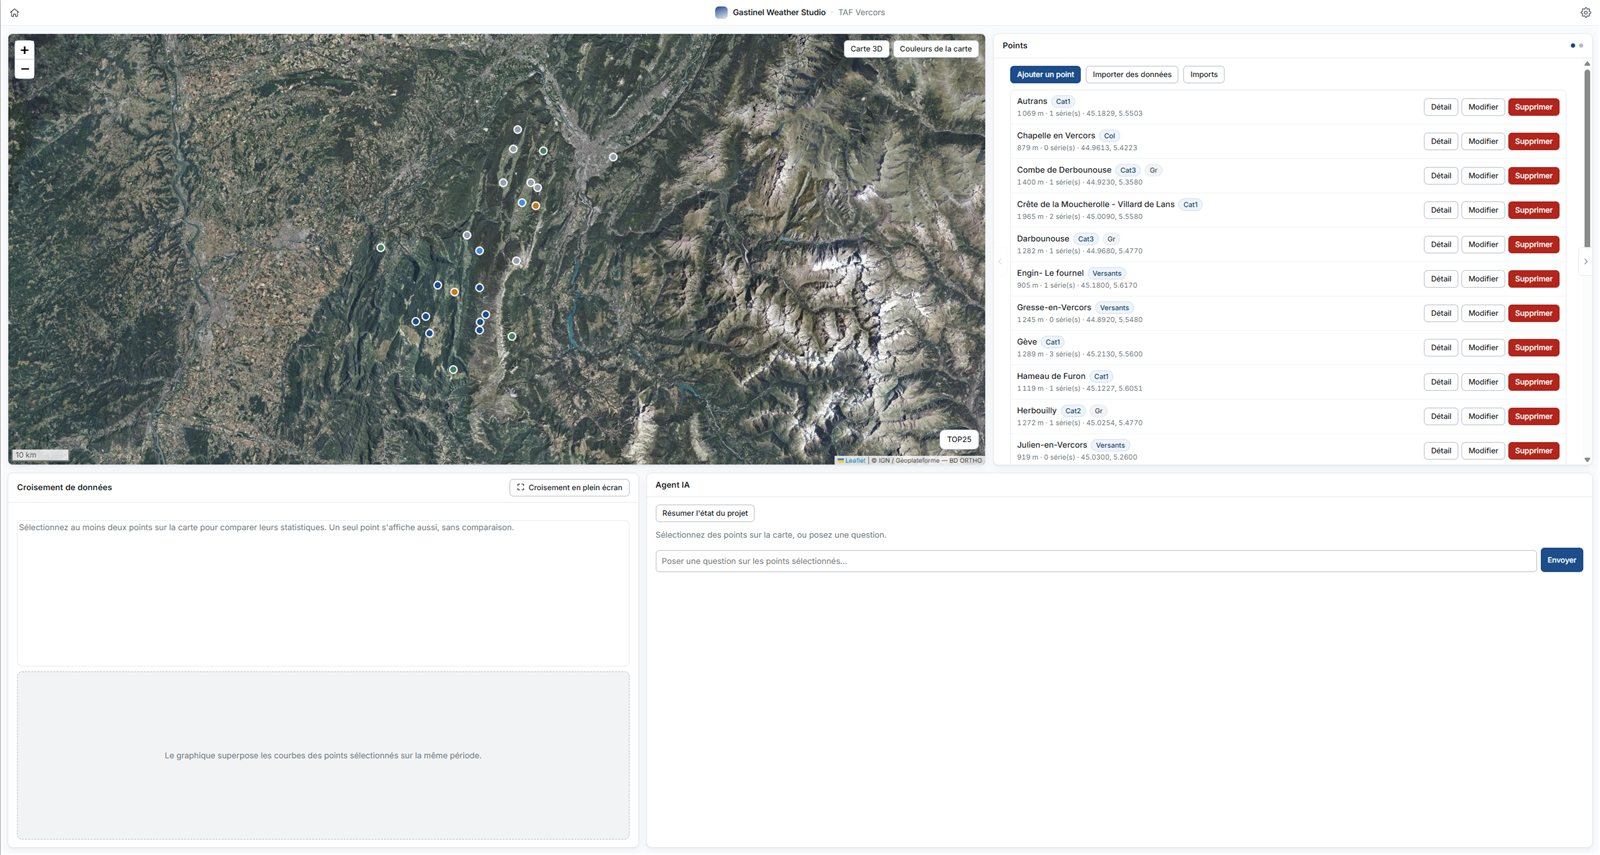
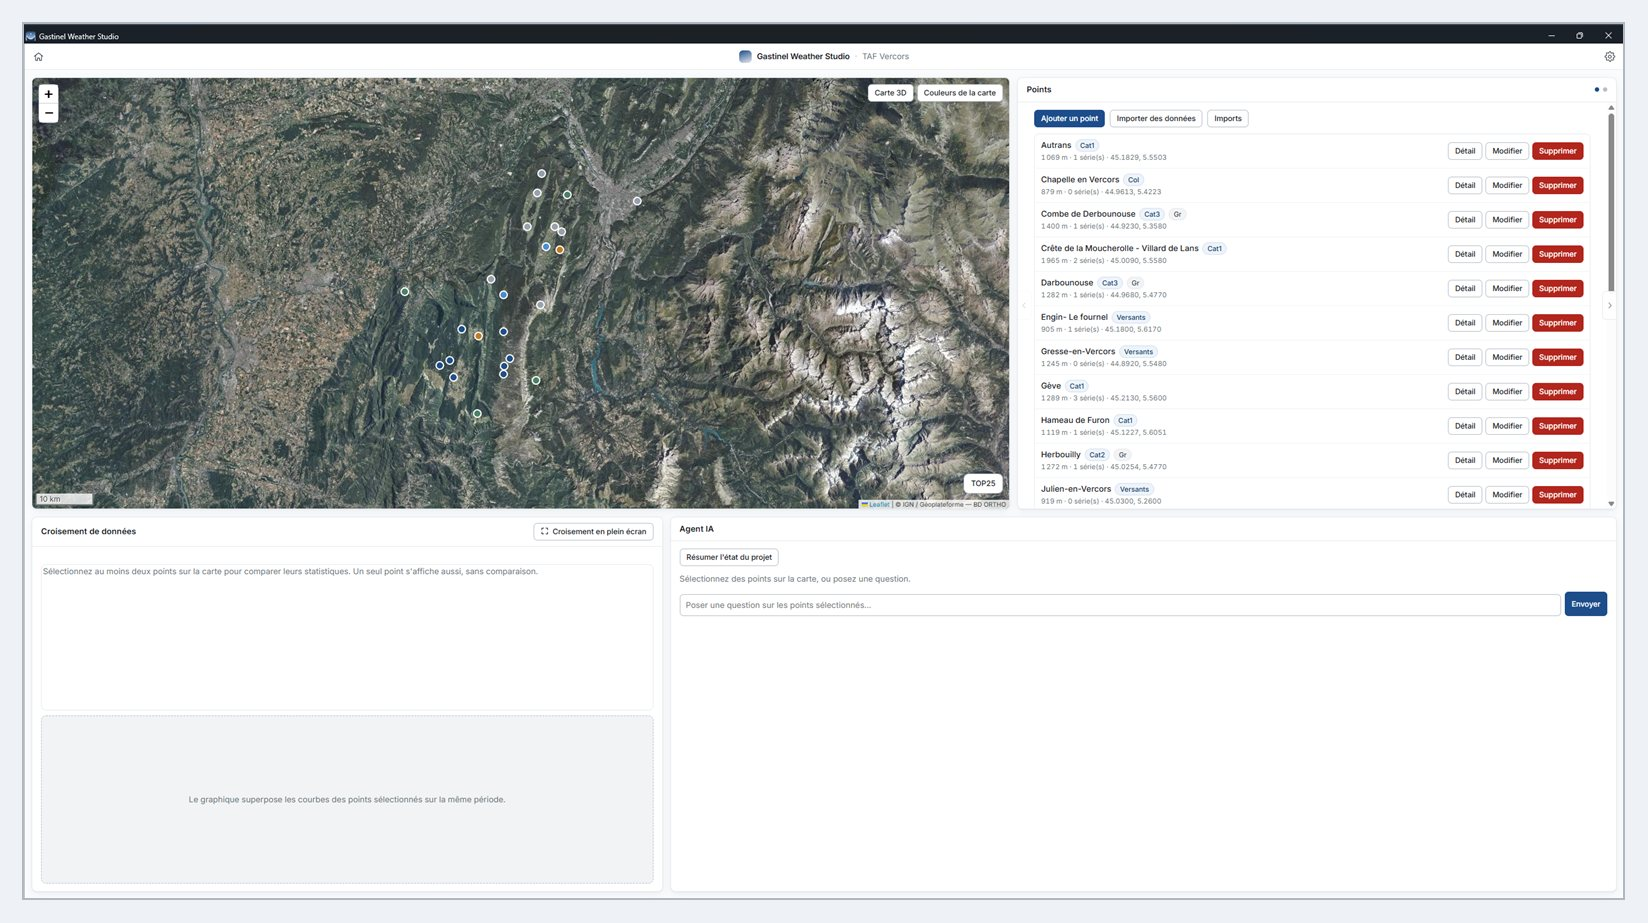
README : cadre de la capture principale, croisement plein ecran, import, Gastinel Weather Elitech, logiciel et extensions separes

diff --git a/README.md b/README.md
@@ -19,22 +19,52 @@ Application de bureau (Windows, avec une cible Android) pour **centraliser, cart
 
 ## Aperçu
 
-| Comparer deux sites, avec l'agent d'analyse | Relief 3D (MNT IGN LiDAR HD) |
+### Croiser les séries
+
+Sélectionnez deux points ou plus sur la carte : statistiques côte à côte, courbes superposées et, si vous le souhaitez, une lecture par l'agent d'analyse.
+
+| Dans le studio | En plein écran (moyennes mensuelles sur plusieurs années) |
 |---|---|
-| ![Croisement de données](docs/captures/croisement.jpg) | ![Carte 3D](docs/captures/3d.jpg) |
+| ![Croisement de données et agent d'analyse](docs/captures/croisement.jpg) | ![Croisement en plein écran](docs/captures/croisement-plein-ecran.jpg) |
 
-<p align="center"><img src="docs/captures/projets.jpg" alt="Liste des projets" width="700"></p>
+### Importer des données
 
-## Fonctionnalités
+Un seul panneau pour trois sources : un **fichier** (format reconnu au contenu), une **station en ligne** (API Infoclimat), ou un **relevé sur place** (saisie à la main ou logger RC-5 branché).
 
-- **Carte** interactive sur fonds IGN (orthophoto, TOP25), avec les points de mesure et les stations, et une **vue 3D du relief**.
-- **Import de relevés** : exports ElitechLog (`.xls`), Infoclimat (JSON et CSV), archives ROMMA (`.csv`). Le format est reconnu au contenu.
-- **Lecture directe du logger Elitech RC-5** par le port série USB, sans passer par ElitechLog.
+<p align="center"><img src="docs/captures/import.jpg" alt="Fenêtre d'import de données" width="560"></p>
+
+### Gastinel Weather Elitech : lire un logger RC-5 sans ElitechLog
+
+Branchez un enregistreur **Elitech RC-5** en USB : l'application le détecte toute seule et propose d'importer sa mémoire. La page Elitech lit les mesures directement par le port série, vérifie et remet à l'heure l'horloge du logger, démarre ou arrête l'enregistrement, puis rattache la série à un point d'un projet. Les mesures obtenues sont identiques à celles d'un export ElitechLog (vérifié par un test permanent). Fonctionne aussi sur Android.
+
+<p align="center"><img src="docs/captures/elitech.jpg" alt="Page Gastinel Weather Elitech avec un RC-5 branché" width="800"></p>
+
+## Le logiciel
+
+- **Carte** interactive sur fonds IGN (orthophoto, TOP25), avec les points de mesure et les stations.
+- **Projets** : chaque projet est un espace de travail géographique libre.
+
+<p align="center"><img src="docs/captures/projets.jpg" alt="Liste des projets" width="640"></p>
+
+- **Import de relevés** : exports ElitechLog (`.xls`), Infoclimat (JSON et CSV), archives ROMMA (`.csv`), et tout autre tableau ou capture d'écran lu par l'assistant (aperçu vérifiable avant enregistrement).
+- **Lecture directe du logger Elitech RC-5** par le port série USB (voir plus haut).
 - **API Infoclimat** : récupération des données de stations avec votre propre clé.
-- **Comparaison** : statistiques côte à côte et courbes superposées de plusieurs séries.
-- **Assistant d'analyse** (optionnel) via l'API Groq, avec votre propre clé.
+- **Croisement** : statistiques côte à côte et courbes superposées, vue plein écran.
+- **Agent d'analyse** (optionnel) via l'API Groq, avec votre propre clé.
 - **Export** en CSV, TXT et HTML.
 - Données stockées **localement** (SQLite). Rien n'est envoyé ailleurs sans action de votre part.
+
+## Les extensions
+
+À côté du logiciel, des **extensions natives** (`.dll`) ajoutent des fonctions sans recompiler l'application. Elles s'activent dans **Paramètres → Extensions** ; détails et API dans [`extensions/README.md`](extensions/README.md).
+
+| Extension | Ce qu'elle ajoute |
+|---|---|
+| **Carte 3D** | Relief 3D du terrain (MNT IGN LiDAR HD) avec les points du projet. |
+| **Couleurs de la carte** | Luminosité, saturation et rendu des fonds IGN. |
+| **Analyse thermique** | Trois analyses de température calculées localement, sans réseau ni IA (lecture seule). |
+
+<p align="center"><img src="docs/captures/3d.jpg" alt="Extension Carte 3D" width="800"></p>
 
 ## Compiler
 
